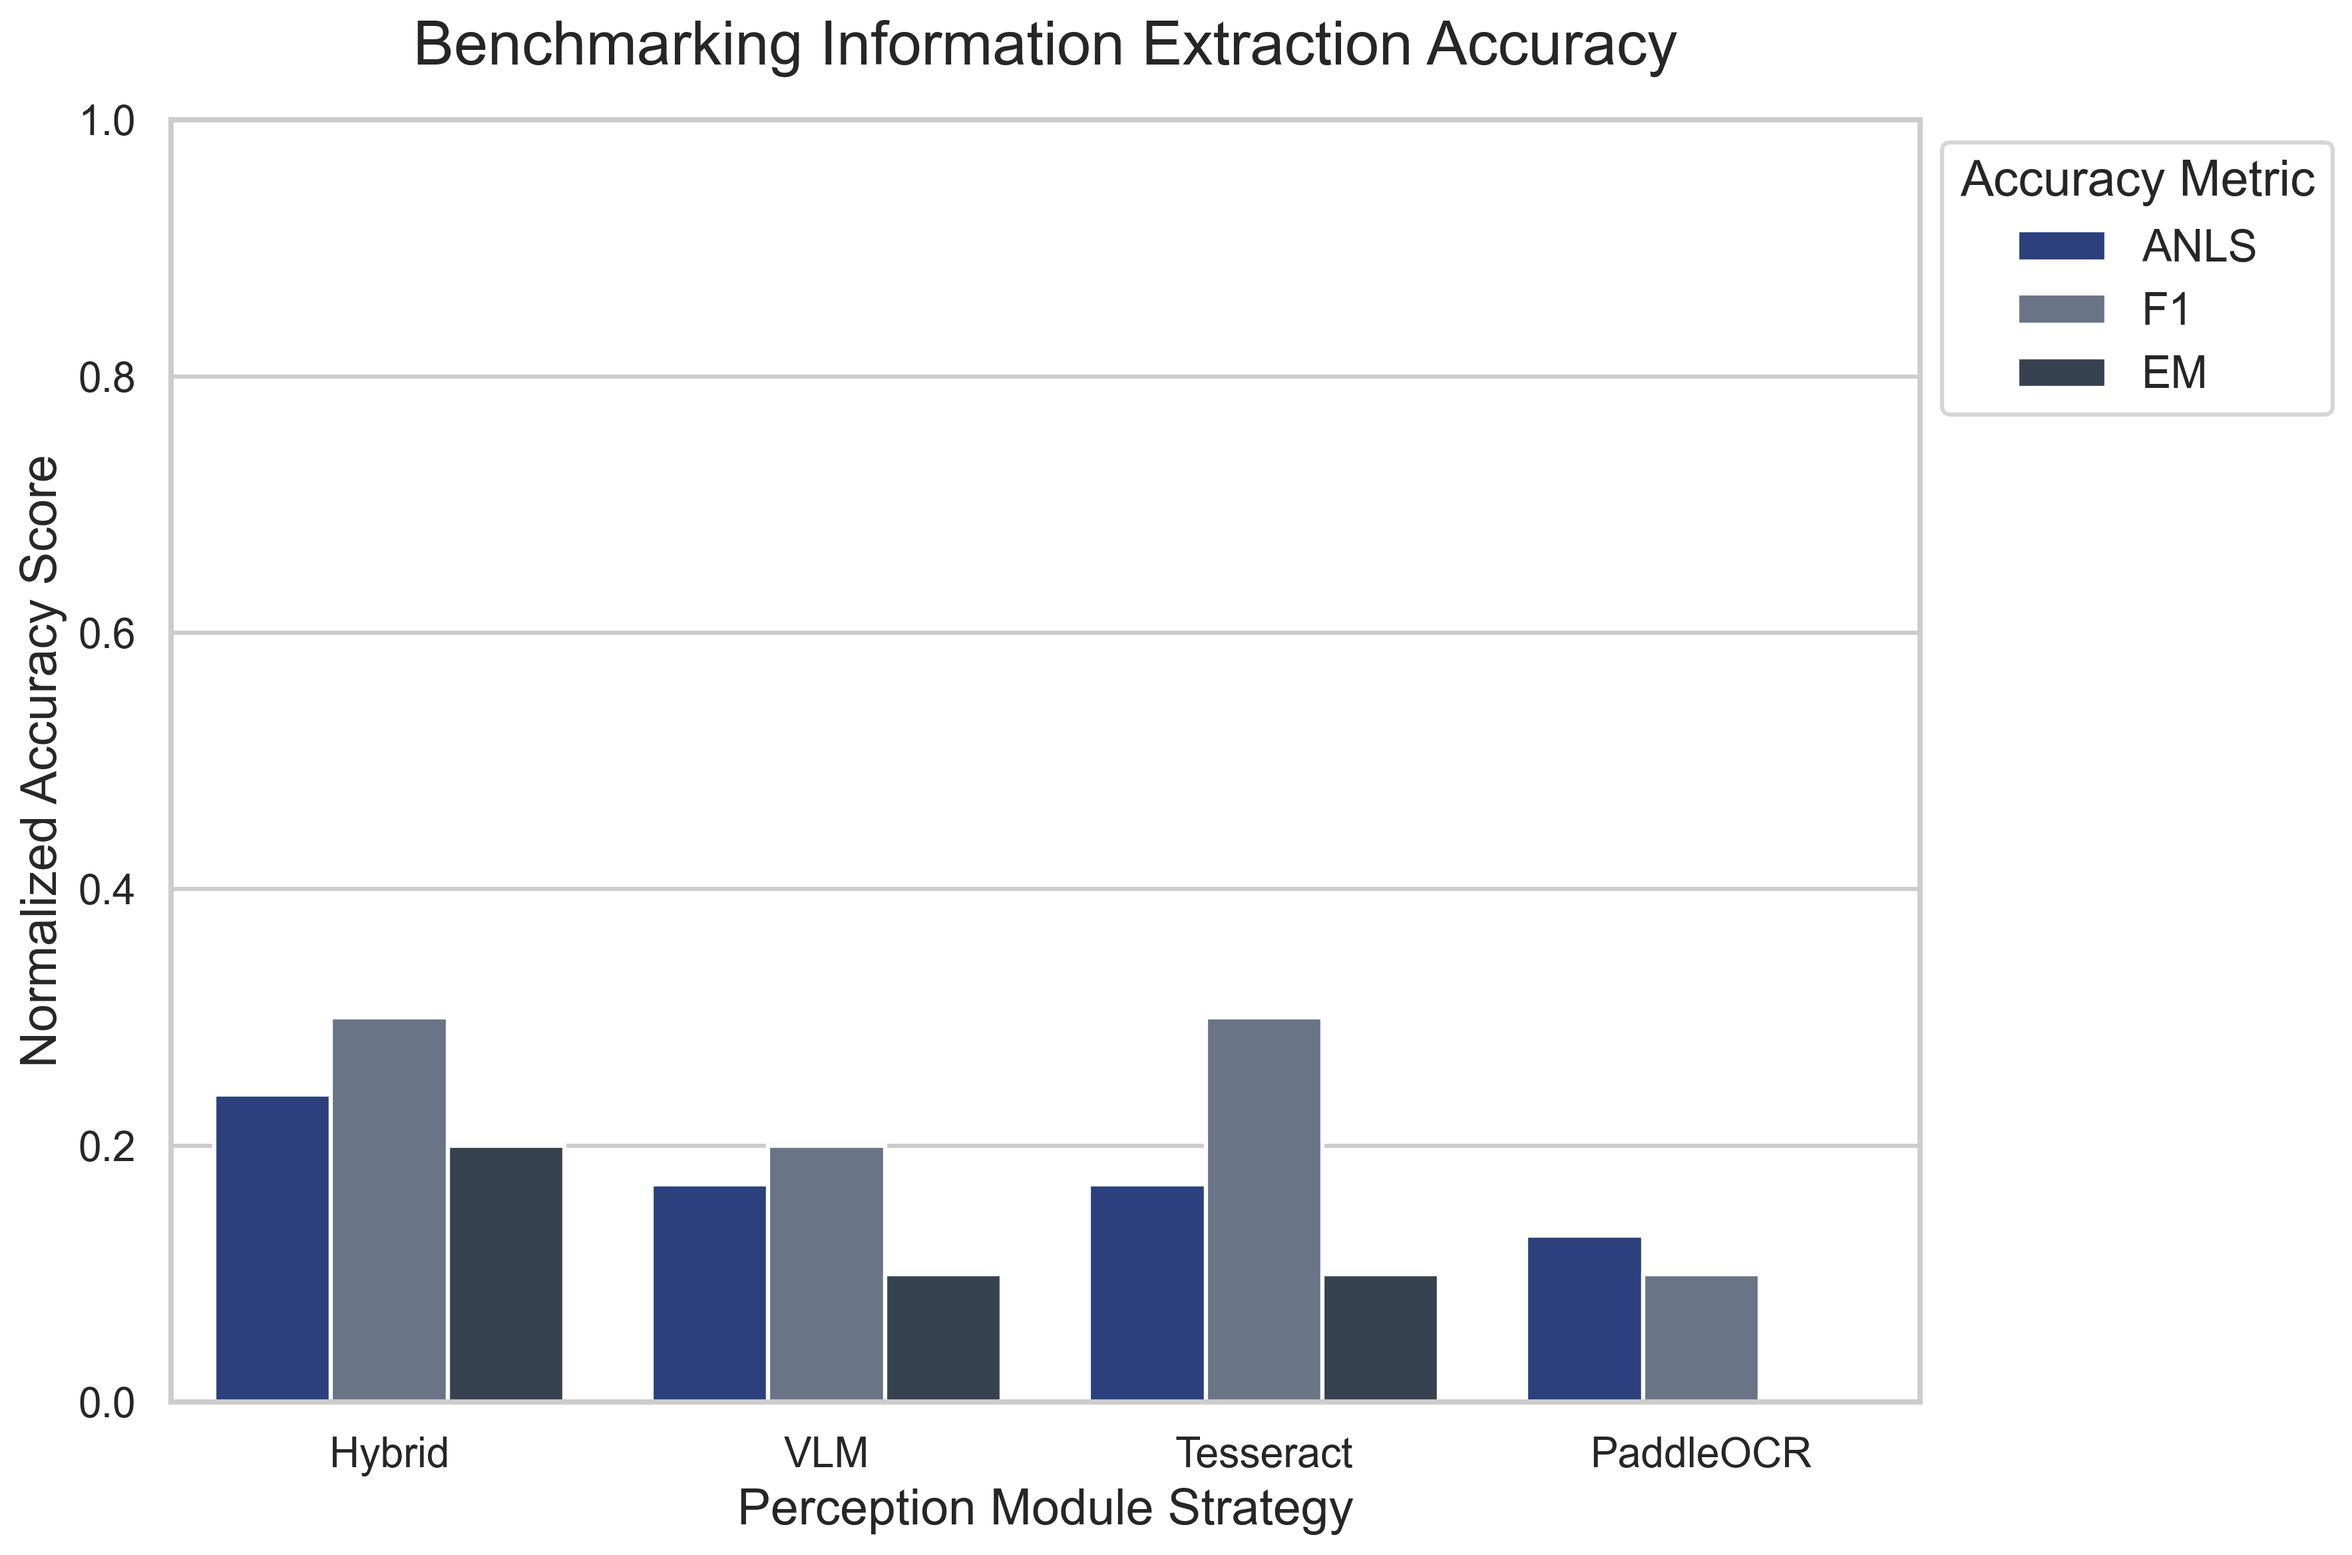
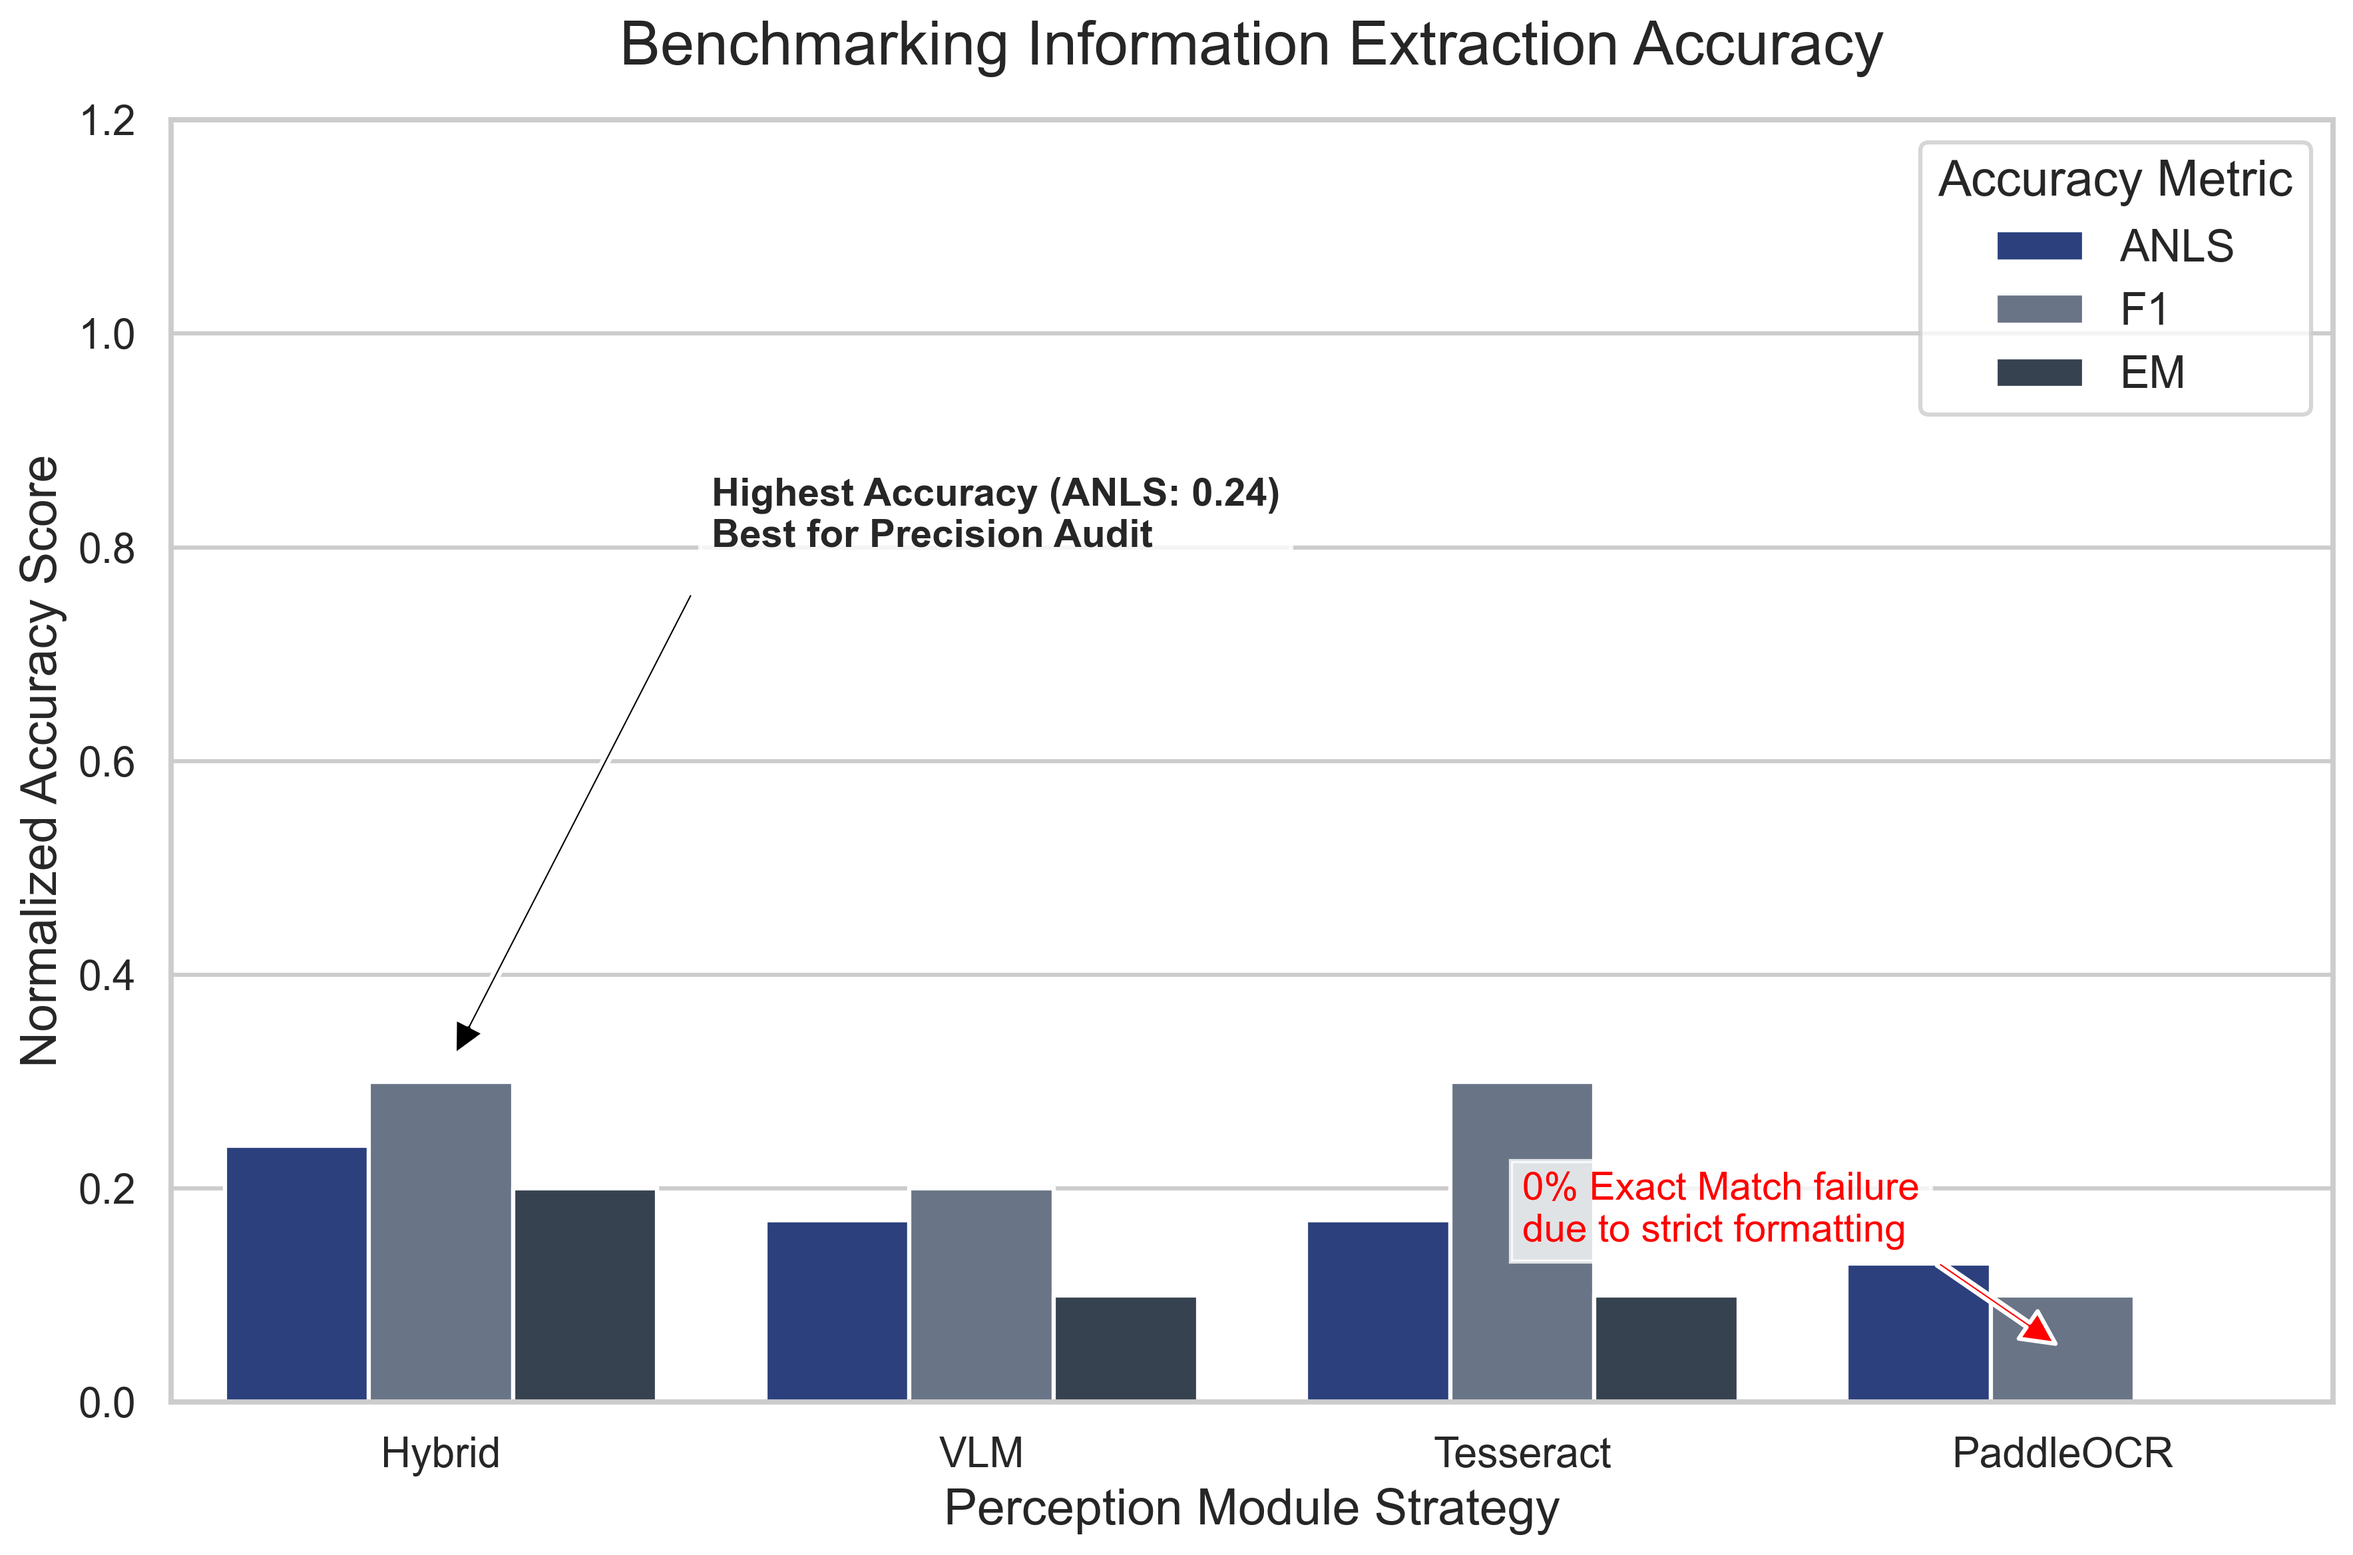
Final Graphical Update: Integrated internal annotations, insight callouts, and performance markers directly into all research plots

diff --git a/src/utils/update_plots.py b/src/utils/update_plots.py
@@ -38,29 +38,47 @@ ax1 = sns.barplot(data=df_melted, x="Model", y="Score", hue="Metric")
 plt.title("Benchmarking Information Extraction Accuracy", pad=20)
 plt.ylabel("Normalized Accuracy Score")
 plt.xlabel("Perception Module Strategy")
-plt.ylim(0, 1.0)
-plt.legend(title="Accuracy Metric", loc='upper left', bbox_to_anchor=(1, 1))
+plt.ylim(0, 1.2) # Extra space for annotations
+plt.legend(title="Accuracy Metric", loc='upper right')
+
+# Insights Inside Accuracy Graph
+ax1.annotate('Highest Accuracy (ANLS: 0.24)\nBest for Precision Audit', 
+             xy=(0, 0.3), xytext=(0.5, 0.8),
+             arrowprops=dict(facecolor='black', shrink=0.05, width=2),
+             fontsize=14, fontweight='bold', bbox=dict(facecolor='white', alpha=0.8))
+
+ax1.annotate('0% Exact Match failure\ndue to strict formatting', 
+             xy=(3, 0.05), xytext=(2.0, 0.15),
+             arrowprops=dict(facecolor='red', shrink=0.05, width=2),
+             fontsize=14, color='red', bbox=dict(facecolor='white', alpha=0.8))
+
 save_plot(fig1, "accuracy_comparison.png")
 
 # 2. Efficiency Comparison (Latency and Throughput)
-fig2, (ax2a, ax2b) = plt.subplots(1, 2, figsize=(18, 9))
+fig2, (ax2a, ax2b) = plt.subplots(1, 2, figsize=(20, 10))
 sns.barplot(data=df, x="Model", y="Total_Latency", ax=ax2a, palette=[academic_palette[0]])
 ax2a.set_title("Inference Latency Breakdown")
 ax2a.set_ylabel("Seconds per Document")
-ax2a.set_xlabel("Perception Strategy")
+ax2a.set_ylim(0, 70)
+
+# Insight on Latency
+ax2a.annotate('Extreme CPU Bottleneck\n(52.3 seconds)', 
+             xy=(3, 52.3), xytext=(1.5, 60),
+             arrowprops=dict(facecolor='red', shrink=0.05, width=2),
+             fontsize=14, color='red', bbox=dict(facecolor='white', alpha=0.8))
 
 sns.barplot(data=df, x="Model", y="Throughput", ax=ax2b, palette=[academic_palette[1]])
 ax2b.set_title("System Throughput Capability")
 ax2b.set_ylabel("Samples per Second")
-ax2b.set_xlabel("Perception Strategy")
+ax2b.set_ylim(0, 0.4)
+
+# Insight on Throughput
+ax2b.annotate('Fastest Real-Time Throughput\n(3.4x faster than Hybrid)', 
+             xy=(1, 0.24), xytext=(1.5, 0.35),
+             arrowprops=dict(facecolor='black', shrink=0.05, width=2),
+             fontsize=14, fontweight='bold', bbox=dict(facecolor='white', alpha=0.8))
 
 plt.suptitle("Operational Efficiency Analysis", fontsize=26, y=1.02)
-# Add manual legends for colors
-from matplotlib.lines import Line2D
-custom_lines = [Line2D([0], [0], color=academic_palette[0], lw=8),
-                Line2D([0], [0], color=academic_palette[1], lw=8)]
-ax2b.legend(custom_lines, ['Latency Metric', 'Throughput Metric'], loc='upper left', bbox_to_anchor=(1, 1))
-
 save_plot(fig2, "efficiency_comparison.png")
 
 # 3. Peak Memory Usage
@@ -68,22 +86,37 @@ fig3 = plt.figure(figsize=(10, 8))
 sns.barplot(data=df, x="Model", y="Memory_Used_MB", palette="mako")
 plt.title("Infrastructure Resource Utilization", pad=20)
 plt.ylabel("Peak RAM Footprint (MB)")
-plt.xlabel("Perception Strategy")
-# Add legend explaining bars
-plt.legend([Line2D([0], [0], color="#2d5e7a", lw=8)], ['Peak Memory (RSS)'], loc='upper left', bbox_to_anchor=(1, 1))
+plt.ylim(0, 6000)
+
+# Insight on Memory
+ax3 = plt.gca()
+ax3.annotate('Edge Ready\n(350 MB)', 
+             xy=(2, 350), xytext=(2.5, 1500),
+             arrowprops=dict(facecolor='green', shrink=0.05, width=2),
+             fontsize=14, color='green', fontweight='bold', bbox=dict(facecolor='white', alpha=0.8))
+
+ax3.annotate('Resource Intensive\nDual-Model Stack (4.6 GB)', 
+             xy=(0, 4600), xytext=(0.5, 5500),
+             arrowprops=dict(facecolor='red', shrink=0.05, width=2),
+             fontsize=14, color='red', bbox=dict(facecolor='white', alpha=0.8))
+
 save_plot(fig3, "memory_comparison.png")
 
 # 4. Database Performance
 fig4 = plt.figure(figsize=(12, 8))
-# Filter out VLM if it has 0 values to avoid clutter
 db_df = df[df['Model'] != 'VLM']
 df_melted_db = db_df.melt(id_vars="Model", value_vars=["Retrieval_Latency", "Indexing_Time"], 
                              var_name="Operation", value_name="Time (s)")
-sns.barplot(data=df_melted_db, x="Model", y="Time (s)", hue="Operation", palette="bone")
+ax4 = sns.barplot(data=df_melted_db, x="Model", y="Time (s)", hue="Operation", palette="bone")
 plt.title("Vector Database Temporal Performance", pad=20)
-plt.ylabel("Inference Time (s)")
-plt.xlabel("Strategy Using FAISS Indexing")
-plt.legend(title="Indexing Phase", loc='upper left', bbox_to_anchor=(1, 1))
+plt.ylim(0, 0.25)
+
+# Insight on Database
+ax4.annotate('Retrieval is Negligible\n(FAISS is optimized)', 
+             xy=(0, 0.05), xytext=(0.5, 0.2),
+             arrowprops=dict(facecolor='black', shrink=0.05, width=2),
+             fontsize=14, fontweight='bold', bbox=dict(facecolor='white', alpha=0.8))
+
 save_plot(fig4, "database_efficiency.png")
 
-print("Plots successfully updated with improved academic formatting.")
+print("Annotated plots successfully updated with in-graph insights.")
